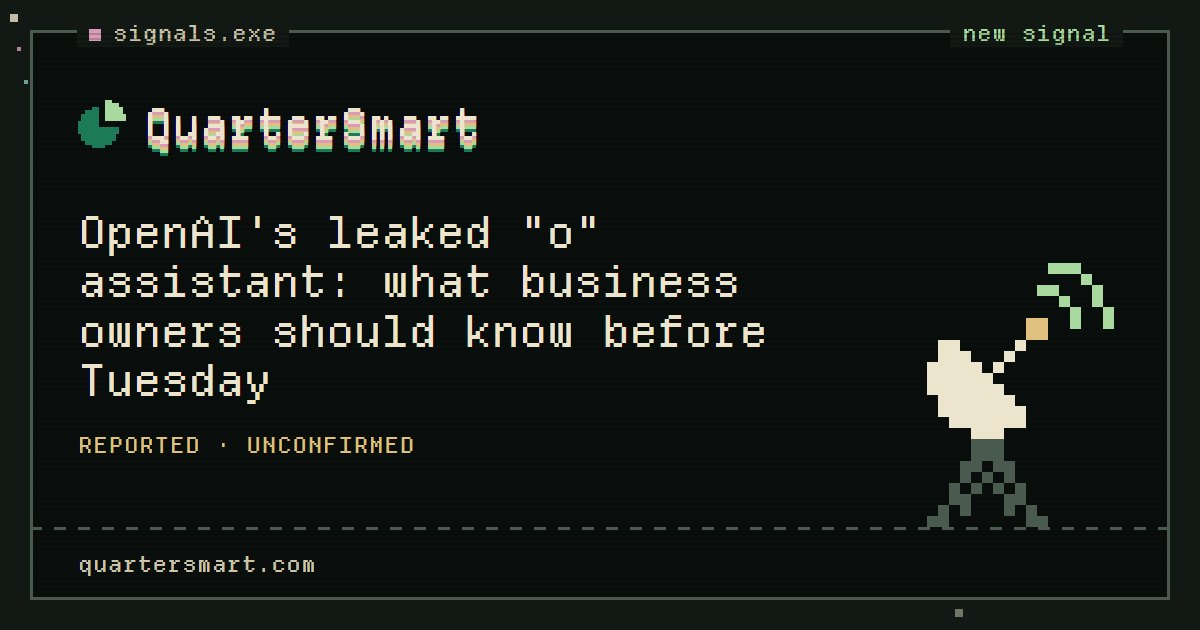
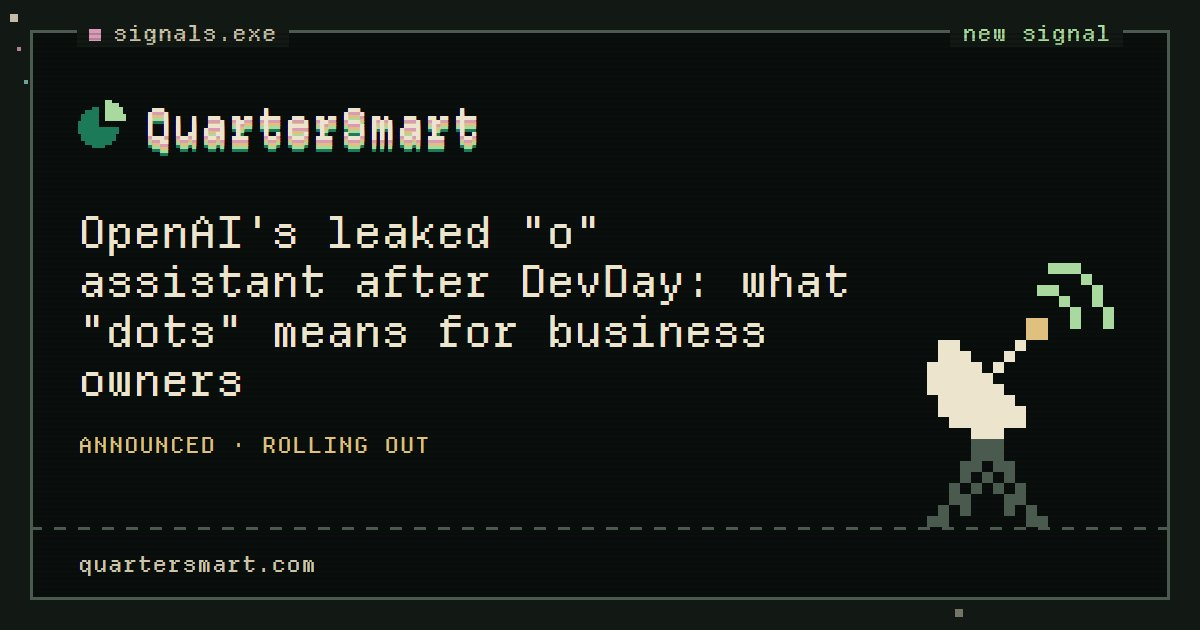
Signals: update the "o" leak report after DevDay (OpenAI announced "dots")
- Report retitled for after DevDay; label Announced · rolling out; verdict stays Prepare.
- New "Updated Oct 1: what DevDay announced" block: what was announced, who can use it now
  (Pro outside the EEA, Switzerland and the UK; Business Premium; Enterprise beta off by
  default), what comes later with no date, and what was not announced (nothing called "o").
- New section on whether dots is the leaked "o" (likely, not confirmed by OpenAI).
- 11 sources added, all opened and checked; 17 lines tightened to match them.
- Homepage Signals band drops the past DevDay event row; Signals Log resolves the item as
  "Partly right"; hub stamp, founder page, llms.txt and the share image updated.
Checks: build passes, smoke 58 captures / 29 pages / 0 failing.

Changed region(s): [[0.0617, 0.4222, 0.7092, 0.6333], [0.0617, 0.6937, 0.37, 0.7238]]

diff --git a/signals/openai-o-assistant-leak.html b/signals/openai-o-assistant-leak.html
@@ -3,26 +3,26 @@
 <head>
 <meta charset="utf-8">
 <meta name="viewport" content="width=device-width, initial-scale=1">
-<title>OpenAI's Leaked "o" Assistant: What to Know Before DevDay | QuarterSmart</title>
-<meta name="description" content="A ChatGPT Pro upgrade screen reportedly listed &quot;o, your always-on assistant.&quot; What leaked, what is confirmed, what it could mean for your inbox and calendar, and what to do before Tuesday.">
+<title>OpenAI's Leaked "o" Assistant After DevDay: What "Dots" Means | QuarterSmart</title>
+<meta name="description" content="OpenAI never announced &quot;o.&quot; At DevDay on Sept 29 it announced &quot;dots,&quot; always-on agents in ChatGPT, rolling out to Pro and Business Premium. What was announced, who can use it now, and what to do.">
 <meta name="author" content="Hyrum Hurst">
 <meta name="robots" content="index, follow, max-image-preview:large">
 <link rel="canonical" href="https://quartersmart.com/signals/openai-o-assistant-leak">
 <meta property="og:type" content="article">
-<meta property="og:title" content="OpenAI's leaked &quot;o&quot; assistant: what business owners should know before Tuesday">
-<meta property="og:description" content="What leaked, what is confirmed, what an always-on assistant would mean for your inbox and calendar, and what to do before DevDay.">
+<meta property="og:title" content="OpenAI's leaked &quot;o&quot; assistant after DevDay: what &quot;dots&quot; means for business owners">
+<meta property="og:description" content="OpenAI announced &quot;dots,&quot; always-on agents in ChatGPT, not &quot;o.&quot; What was announced, who can use it now, what is still unknown, and what to do.">
 <meta property="og:url" content="https://quartersmart.com/signals/openai-o-assistant-leak">
 <meta property="og:site_name" content="QuarterSmart">
 <meta property="og:image" content="https://quartersmart.com/assets/og/signals-openai-o-assistant-leak.jpg">
 <meta property="og:image:width" content="1200">
 <meta property="og:image:height" content="630">
-<meta property="og:image:alt" content="QuarterSmart Signals: OpenAI's leaked &quot;o&quot; assistant, what business owners should know before Tuesday">
+<meta property="og:image:alt" content="QuarterSmart Signals: OpenAI's leaked &quot;o&quot; assistant after DevDay, what &quot;dots&quot; means for business owners">
 <meta name="twitter:card" content="summary_large_image">
-<meta name="twitter:title" content="OpenAI's leaked &quot;o&quot; assistant: what to know before Tuesday">
-<meta name="twitter:description" content="What leaked, what is confirmed, and what to do before DevDay.">
+<meta name="twitter:title" content="OpenAI's leaked &quot;o&quot; assistant after DevDay: what &quot;dots&quot; means">
+<meta name="twitter:description" content="OpenAI announced &quot;dots,&quot; not &quot;o.&quot; Who can use it now, and what to do.">
 <meta name="twitter:image" content="https://quartersmart.com/assets/og/signals-openai-o-assistant-leak.jpg">
-<meta name="qs:kind" content="reported">
-<meta name="qs:label" content="Reported · unconfirmed">
+<meta name="qs:kind" content="confirmed">
+<meta name="qs:label" content="Announced · rolling out">
 <meta name="qs:verdict" content="Prepare">
 <meta name="qs:cover" content="/assets/px/flat/assistant.png">
 <!-- @include head -->
@@ -35,11 +35,11 @@
     {
       "@type": "NewsArticle",
       "@id": "https://quartersmart.com/signals/openai-o-assistant-leak#article",
-      "headline": "OpenAI's leaked \"o\" assistant: what business owners should know before Tuesday",
-      "description": "What leaked, what is confirmed, what an always-on assistant would mean for your inbox and calendar, and what to do before DevDay.",
+      "headline": "OpenAI's leaked \"o\" assistant after DevDay: what \"dots\" means for business owners",
+      "description": "OpenAI announced \"dots,\" always-on agents in ChatGPT, not \"o.\" What was announced, who can use it now, what is still unknown, and what to do.",
       "image": "https://quartersmart.com/assets/og/signals-openai-o-assistant-leak.jpg",
       "datePublished": "2026-09-27",
-      "dateModified": "2026-09-27",
+      "dateModified": "2026-10-01",
       "author": { "@type": "Person", "@id": "https://quartersmart.com/about.html#hyrum-hurst", "name": "Hyrum Hurst", "url": "https://quartersmart.com/about/hyrum-hurst/" },
       "publisher": { "@id": "https://quartersmart.com/#organization" },
       "mainEntityOfPage": "https://quartersmart.com/signals/openai-o-assistant-leak"
@@ -49,7 +49,7 @@
       "itemListElement": [
         { "@type": "ListItem", "position": 1, "name": "Home", "item": "https://quartersmart.com/" },
         { "@type": "ListItem", "position": 2, "name": "Signals", "item": "https://quartersmart.com/signals/" },
-        { "@type": "ListItem", "position": 3, "name": "OpenAI's leaked \"o\" assistant", "item": "https://quartersmart.com/signals/openai-o-assistant-leak" }
+        { "@type": "ListItem", "position": 3, "name": "OpenAI's leaked \"o\" assistant after DevDay", "item": "https://quartersmart.com/signals/openai-o-assistant-leak" }
       ]
     }
   ]
@@ -63,11 +63,11 @@
     <div class="wrap phero__grid">
       <div class="phero__copy">
         <nav class="phero__crumbs" aria-label="Breadcrumb"><a href="/">Home</a> / <a href="/signals/">Signals</a></nav>
-        <p class="phero__meta"><span class="chip chip--reported">Reported · unconfirmed</span><span class="phero__verdict">Verdict:<b>Prepare</b></span></p>
-        <h1 class="phero__h">OpenAI's leaked "o" assistant: what business owners should know before Tuesday</h1>
-        <p class="lede">A ChatGPT Pro upgrade screen, reportedly seen only briefly by some users, listed "o, your always-on assistant." Here is what leaked, what is confirmed, and what to do before OpenAI's DevDay keynote.</p>
-        <p class="byline"><span>By <b>Hyrum Hurst</b></span><span>Posted <time datetime="2026-09-27T01:30-07:00">Sep 27, 2026</time></span><span>Leaked <time datetime="2026-09-25">Sep 25, 2026</time></span></p>
-        <div class="phero__cta"><a class="btn btn--arcade" href="/insert-coin/" data-cta="book" style="font-size:clamp(16.5px,(100vw - 480px) * 1000,22px)">Book a free 20-minute call</a><a class="link" href="#before-tuesday">What to do before Tuesday</a></div>
+        <p class="phero__meta"><span class="chip chip--confirmed">Announced · rolling out</span><span class="phero__verdict">Verdict:<b>Prepare</b></span></p>
+        <h1 class="phero__h">OpenAI's leaked "o" assistant after DevDay: what "dots" means for business owners</h1>
+        <p class="lede">A ChatGPT Pro upgrade screen reportedly listed "o, your always-on assistant." At DevDay on September 29, OpenAI announced "dots," always-on agents in ChatGPT. It did not announce anything called "o." Here is what was announced, who can use it now, and what to do.</p>
+        <p class="byline"><span>By <b>Hyrum Hurst</b></span><span>Posted <time datetime="2026-09-27T01:30-07:00">Sep 27, 2026</time></span><span>Updated <time datetime="2026-10-01T20:30-07:00">Oct 1, 2026</time></span><span>Leaked <time datetime="2026-09-25">Sep 25, 2026</time></span></p>
+        <div class="phero__cta"><a class="btn btn--arcade" href="/insert-coin/" data-cta="book" style="font-size:clamp(16.5px,(100vw - 480px) * 1000,22px)">Book a free 20-minute call</a><a class="link" href="#what-to-do">What to do now</a></div>
       </div>
       <div class="pxwin phero__art">
         <span class="win__t" aria-hidden="true">signal.exe</span>
@@ -83,15 +83,55 @@
 
   <div class="wrap post-grid">
     <article class="prose">
-      <div class="callout"><strong>Status: unconfirmed.</strong> As of September 27, "o" does not appear on OpenAI's <a href="https://devday.openai.com/" rel="noopener">DevDay page</a>, in <a href="https://openai.com/news/" rel="noopener">OpenAI News</a> or in the <a href="https://help.openai.com/en/articles/6825453-chatgpt-release-notes" rel="noopener">ChatGPT release notes</a>, whose newest entry is September 25.</div>
+      <div class="callout"><strong>Status, Oct 1: OpenAI announced "dots," not "o."</strong> On September 29, OpenAI <a href="https://openai.com/index/introducing-dots/" rel="noopener">announced dots</a>, always-on agents in ChatGPT. None of the OpenAI pages we checked use the name "o." Dots matches the leak closely, but OpenAI has not said they are the same product.</div>
+
+      <section class="callout callout--accent" id="update" aria-labelledby="update-h">
+        <h2 id="update-h">Updated Oct 1: what DevDay announced</h2>
+        <h3>Announced on Sept 29</h3>
+        <ul>
+          <li>OpenAI <a href="https://openai.com/index/introducing-dots/" rel="noopener">announced dots</a>, which it calls always-on agents in ChatGPT. <a href="https://techcrunch.com/2026/09/29/openai-launches-dots-its-bubbly-agentic-avatar/" rel="noopener">TechCrunch</a> reports they run on GPT-6 Astra.</li>
+          <li>A dot keeps working between chats. It can run <a href="https://help.openai.com/en/articles/20001530-getting-started-with-your-dot" rel="noopener">scheduled reminders and recurring checks</a>, such as a morning review of your calendar.</li>
+          <li>When you are not working with it, a dot <a href="https://openai.com/index/introducing-dots/" rel="noopener">researches in the background</a> with read-only tools. Those tools cannot send messages, change app content or control a browser.</li>
+          <li>You can set limits. <a href="https://openai.com/index/introducing-dots/" rel="noopener">Custom Rules</a> let you allow an action, require approval or block it. Before a dot sends an email or changes files, a separate check called <a href="https://openai.com/index/how-we-build-safety-security-and-privacy-into-dots/" rel="noopener">Auto-review</a> compares the step with your instructions and rules. Purchases with saved cards need your approval. Password changes and money transfers go back to you.</li>
+          <li>You can <a href="https://openai.com/index/introducing-dots/" rel="noopener">message or call your dot</a> in ChatGPT on desktop, web and mobile, and message it in Slack and Teams.</li>
+        </ul>
+        <h3>Who can use it now</h3>
+        <p>The rollout started Sept 29 and is gradual. OpenAI's <a href="https://help.openai.com/en/articles/20001530-getting-started-with-your-dot" rel="noopener">Help Center</a> lists who gets it and says access may take several days to reach an account.</p>
+        <ul>
+          <li><strong>Pro:</strong> rolling out in eligible markets, except the EEA, Switzerland and the UK.</li>
+          <li><strong>Business Premium:</strong> rolling out in all supported ChatGPT regions.</li>
+          <li><strong>Enterprise, Edu and Healthcare:</strong> a beta, off by default until a workspace admin turns it on (<a href="https://openai.com/index/devday-2026-recap/" rel="noopener">DevDay recap</a>).</li>
+          <li><strong>Free, Go and Plus:</strong> not included. Among individual plans, OpenAI's <a href="https://chatgpt.com/pricing/" rel="noopener">pricing page</a> lists dots only under Pro.</li>
+          <li><strong>Cost:</strong> your first dot is included in Pro or Business Premium <a href="https://openai.com/index/introducing-dots/" rel="noopener">at no extra cost</a>. Chatting with it does not count toward usage limits. Tasks it starts in Codex or ChatGPT Work do.</li>
+          <li><strong>Limits at launch:</strong> a dot can use a personal email account you connect, but it cannot have its own email address or call you. Texting is a <a href="https://help.openai.com/en/articles/20001530-getting-started-with-your-dot" rel="noopener">limited beta</a> for some US Pro users.</li>
+        </ul>
+        <h3>Coming later, with no date</h3>
+        <ul>
+          <li><strong>Wider access.</strong> OpenAI says it plans to bring dots <a href="https://openai.com/index/introducing-dots/" rel="noopener">"to more users soon"</a> and names no plans.</li>
+          <li><strong>Usage terms after the first month.</strong> The <a href="https://help.openai.com/en/articles/6825453-chatgpt-release-notes" rel="noopener">release notes</a> say dots usage will not count toward plan allowances for the next month, and that OpenAI will share usage terms for each plan after that. The <a href="https://openai.com/index/introducing-dots/" rel="noopener">launch post</a> describes the first month differently, as extended limits.</li>
+          <li><strong>More than one dot.</strong> Adding more dots, or scaling a dot's speed or monthly work, is <a href="https://openai.com/index/introducing-dots/" rel="noopener">described as coming in the future</a>.</li>
+          <li><strong>Broader texting.</strong> OpenAI's <a href="https://openai.com/index/introducing-dots/" rel="noopener">launch post</a> calls texting "coming soon."</li>
+        </ul>
+        <h3>Not announced</h3>
+        <p>Anything called "o." The name is not in OpenAI's dots post, DevDay recap, dots safety post, Help Center article, <a href="https://help.openai.com/en/articles/6825453-chatgpt-release-notes" rel="noopener">release notes</a> or <a href="https://help.openai.com/en/articles/9793128-about-chatgpt-pro-tiers" rel="noopener">Pro tiers article</a>.</p>
+        <h3>What changes for a working business</h3>
+        <ul>
+          <li><strong>On Free, Go or Plus:</strong> nothing for now. Dots is not on your plan.</li>
+          <li><strong>On Pro (outside the EEA, Switzerland and the UK) or Business Premium:</strong> your dot may already be there. If not, OpenAI says access may take several days. Write your Custom Rules before you connect email.</li>
+          <li><strong>On Enterprise:</strong> nothing happens until an admin turns the beta on. Decide who tests it first.</li>
+          <li><strong>For everyone:</strong> the prep list below still applies, and written approval rules map straight onto Custom Rules.</li>
+        </ul>
+        <p>The verdict stays <strong>Prepare</strong>. Dots is limited to Pro, Business Premium and an Enterprise beta, and the usage terms after the first month are not public yet.</p>
+      </section>
 
       <div class="shortv">
         <h2>The short version</h2>
         <ul>
           <li>On September 25, Jake Boggs posted a screenshot of the ChatGPT Pro upgrade screen on X. One line read "o, your always-on assistant."</li>
           <li>The next day, TestingCatalog posted ChatGPT configuration showing "o" as a display name and "-o" as an email suffix. It said the line appeared only briefly on the upgrade screen, for some users.</li>
-          <li>OpenAI has not announced "o." Its DevDay is Tuesday, and TestingCatalog expects to hear more there.</li>
-          <li>The only description is "your always-on assistant." Read literally, that is an assistant that keeps working after you close the chat. For a small business, that points at the inbox, the calendar and the follow-ups nobody gets to.</li>
+          <li>At DevDay on September 29, OpenAI announced "dots," always-on agents in ChatGPT. It did not announce anything called "o."</li>
+          <li>OpenAI's pricing page now lists "Dot, your always-on agent" under Pro. That is a close match for the leak, but OpenAI has not linked the two.</li>
+          <li>For a small business, an always-on agent points at the inbox, the calendar and the follow-ups nobody gets to. Dots is rolling out to Pro and Business Premium, with an Enterprise beta.</li>
         </ul>
       </div>
 
@@ -99,53 +139,72 @@
       <p>Two screenshots, both posted on X and neither confirmed by OpenAI.</p>
       <p>The first, posted by <a href="https://x.com/JakeABoggs/status/2103497311225856386" rel="noopener">Jake Boggs</a> on September 25, is a "Get ChatGPT Pro" upgrade screen. Under "Everything in Plus, and:" it lists "o, your always-on assistant."</p>
       <p>The second, posted by <a href="https://x.com/testingcatalog/status/2103787365986623925" rel="noopener">TestingCatalog</a> the next day, shows ChatGPT's internal configuration with a display name of "o" and an email suffix of "-o." TestingCatalog says the line appeared only briefly on the upgrade screen, for some users.</p>
-      <p>That is the entire evidence base. There is no feature list, no release date and no separate price. On the leaked screen, "o" is a Pro perk on top of Plus. Whether Plus, Business or Enterprise get it is unknown, and TestingCatalog says the assistant's tasks, permissions, scheduling, memory and availability <a href="https://www.testingcatalog.com/openai-to-announce-o-always-on-agent-during-devday/" rel="noopener">remain unknown</a>.</p>
+      <p>That was the entire evidence base before DevDay. There was no feature list, no release date and no separate price. On the leaked screen, "o" was a Pro perk on top of Plus. Whether Plus, Business or Enterprise would get it was unknown, and TestingCatalog said the assistant's tasks, permissions, scheduling, memory and availability <a href="https://www.testingcatalog.com/openai-to-announce-o-always-on-agent-during-devday/" rel="noopener">remained unknown</a>. DevDay answered most of those questions for dots.</p>
 
-      <h2>What "always-on" would mean in practice</h2>
-      <p>ChatGPT Work can already run <a href="https://help.openai.com/en/articles/6825453-chatgpt-release-notes" rel="noopener">scheduled tasks</a> that repeat or watch for changes, and since August 25, Plus and Pro users can have a task respond when a new Gmail message arrives. An always-on assistant would presumably keep working without you setting up each task, but OpenAI has not said what "o" does. If it goes that way, these are the three places a business would feel it first:</p>
+      <h2>Is dots the "o" from the leak?</h2>
+      <p>Probably, but OpenAI has not said so.</p>
+      <ul>
+        <li><strong>What matches.</strong> The leak showed an always-on assistant listed as a Pro perk. OpenAI's <a href="https://chatgpt.com/pricing/" rel="noopener">pricing page</a> now lists "Dot, your always-on agent" under Pro.</li>
+        <li><strong>What does not.</strong> The leak pointed to an "-o" email suffix. At launch, a dot <a href="https://help.openai.com/en/articles/20001530-getting-started-with-your-dot" rel="noopener">cannot have its own email address</a>, and its default handle is @yourname-dot.</li>
+        <li><strong>What is still open.</strong> The night before the keynote, TestingCatalog reported that the agents would be called "Dots" and <a href="https://x.com/testingcatalog/status/2104800309612552589" rel="noopener">asked</a> whether "o" was "something else on top of it." Its Sept 30 <a href="https://www.testingcatalog.com/openai-launches-dots-agents-powered-by-gpt-6-astra/" rel="noopener">launch article</a> does not mention "o."</li>
+      </ul>
+      <p>Our read: the same product under its launch name. That is our inference, not OpenAI's statement.</p>
+
+      <h2>What "always-on" means in practice</h2>
+      <p>Before DevDay, all we had was the word "assistant" and an email suffix. ChatGPT Work could already run <a href="https://help.openai.com/en/articles/6825453-chatgpt-release-notes" rel="noopener">scheduled tasks</a> that repeat or watch for changes, and since August 25, Plus and Pro users can have a task respond when a new Gmail message arrives. OpenAI says dots go further: they <a href="https://help.openai.com/en/articles/6825453-chatgpt-release-notes" rel="noopener">keep making progress between conversations</a> and <a href="https://openai.com/index/introducing-dots/" rel="noopener">look for ways to help in the background</a>. These are the three places a business would feel it first:</p>
       <ol>
-        <li><strong>The inbox.</strong> Sorting what needs you, drafting replies in your voice, and chasing threads that went quiet. TestingCatalog reads the "-o" email suffix to mean "o" will handle email. As <a href="https://kingy.ai/blog/openai-o-update-always-on-assistant/" rel="noopener">Kingy AI</a> points out, a suffix alone could mean the assistant gets its own address rather than access to your inbox.</li>
-        <li><strong>The calendar.</strong> Finding times, confirming appointments and handling reschedules without the back-and-forth.</li>
-        <li><strong>Follow-ups.</strong> The quotes that never got a second touch, and the leads that went cold because everyone was busy.</li>
+        <li><strong>The inbox.</strong> A dot can use a personal email account you connect, and <a href="https://openai.com/index/how-we-build-safety-security-and-privacy-into-dots/" rel="noopener">Auto-review</a> checks the recipient and the message before it sends. TestingCatalog read the leaked "-o" suffix to mean "o" would handle email. As <a href="https://kingy.ai/blog/openai-o-update-always-on-assistant/" rel="noopener">Kingy AI</a> pointed out, a suffix alone could also mean an address of its own. At launch, a dot cannot have one.</li>
+        <li><strong>The calendar.</strong> A dot can <a href="https://help.openai.com/en/articles/20001530-getting-started-with-your-dot" rel="noopener">review your calendar each morning</a> and tell you what is coming up. That example is OpenAI's own.</li>
+        <li><strong>Follow-ups.</strong> Scheduled reminders and recurring checks are the building blocks. Using them to chase quotes and cold leads is our reading.</li>
       </ol>
-      <p>These are inferences, not confirmed features. The only concrete clue is the email suffix. The calendar and follow-ups come from the word "assistant" alone.</p>
 
       <h2>Confirmed vs. reported</h2>
       <table class="cvr">
         <thead><tr><th>Claim</th><th>Status</th></tr></thead>
         <tbody>
-          <tr><td>DevDay is Tuesday, Sept 29, at Fort Mason in San Francisco. The keynote is at 10:00 AM PT and livestreamed free.</td><td><span class="chip chip--confirmed">Confirmed by OpenAI</span></td></tr>
+          <tr><td>At DevDay on Tuesday, Sept 29, OpenAI announced dots, always-on agents in ChatGPT.</td><td><span class="chip chip--confirmed">Confirmed by OpenAI</span></td></tr>
           <tr><td>A Pro upgrade screen listed "o, your always-on assistant" as a perk on top of Plus.</td><td><span class="chip chip--reported">Reported</span></td></tr>
           <tr><td>App configuration shows "o" as a display name and "-o" as an email suffix.</td><td><span class="chip chip--reported">Reported</span></td></tr>
-          <tr><td>OpenAI announces "o" at DevDay, as TestingCatalog expects.</td><td><span class="chip chip--quiet">Speculation</span></td></tr>
-          <tr><td>"o" handles email, as TestingCatalog reads the "-o" suffix.</td><td><span class="chip chip--quiet">Speculation</span></td></tr>
-          <tr><td>Price, and whether Plus, Business or Enterprise get it.</td><td><span class="chip chip--quiet">Unknown</span></td></tr>
+          <tr><td>OpenAI announces "o" at DevDay, as TestingCatalog expected. It announced dots instead and did not use the name.</td><td><span class="chip chip--quiet">Did not happen</span></td></tr>
+          <tr><td>Dots is the "o" from the leak.</td><td><span class="chip chip--reported">Likely · unconfirmed</span></td></tr>
+          <tr><td>"o" handles email, as TestingCatalog read the "-o" suffix. A dot can use a personal email account you connect, but cannot have its own address at launch.</td><td><span class="chip chip--confirmed">Partly</span></td></tr>
+          <tr><td>Which plans get it: Pro and Business Premium now, plus an Enterprise beta. Not Free, Go or Plus. The first dot costs nothing extra on Pro or Business Premium.</td><td><span class="chip chip--confirmed">Confirmed by OpenAI</span></td></tr>
         </tbody>
       </table>
 
       <h2>Who this is for, and who can skip it</h2>
-      <p><strong>Prepare</strong> if your week is eaten by email, scheduling or follow-ups and your team already uses ChatGPT. <strong>Skip it for now</strong> if your team does not use ChatGPT at all, or if client data rules mean a new assistant would need a long approval process anyway.</p>
+      <p><strong>Prepare</strong> if your week is eaten by email, scheduling or follow-ups and your team already uses ChatGPT. If you already pay for Pro or a Business Premium seat, write your rules this week and give your dot one small recurring job when it arrives. <strong>Skip it for now</strong> if your team does not use ChatGPT at all, if you are on Pro in the EEA, Switzerland or the UK, or if client data rules mean a new agent would need a long approval process anyway.</p>
 
-      <h2 id="before-tuesday">What to do before Tuesday</h2>
-      <p>No need to buy anything yet. These steps make day one easier if it ships:</p>
+      <h2 id="what-to-do">What to do now</h2>
+      <p>No need to buy anything yet. These steps pay off whether dots is on your plan today or not:</p>
       <ul>
-        <li><strong>Clean up the shared inbox.</strong> Archive dead threads and set up labels for sales, support and billing. An assistant works better on an organized inbox.</li>
+        <li><strong>Clean up the shared inbox.</strong> Archive dead threads and set up labels for sales, support and billing. An agent works better on an organized inbox.</li>
         <li><strong>Write down your three most repetitive email types.</strong> Booking confirmations, quote follow-ups and "just checking in." Those are the first jobs to hand off.</li>
         <li><strong>Check who owns your accounts.</strong> Know which Google or Microsoft account holds the company email and calendar, and who can grant access.</li>
-        <li><strong>Decide your rules.</strong> What should an assistant never send without a person approving it? Write that down now, while it is calm.</li>
-        <li><strong>Try the closest thing that exists now.</strong> If you are on Plus or Pro, ChatGPT Work can run a <a href="https://help.openai.com/en/articles/6825453-chatgpt-release-notes" rel="noopener">scheduled task when a new Gmail message arrives</a>, and actions that need approval wait for you. One small test shows how your team feels about an assistant touching email.</li>
+        <li><strong>Write your rules.</strong> What should an agent never send without a person approving it? Dots' <a href="https://openai.com/index/introducing-dots/" rel="noopener">Custom Rules</a> let you allow an action, require approval or block it, so a written list carries straight over.</li>
+        <li><strong>Start with one recurring check.</strong> If your dot has arrived, give it one job that only reads, such as a morning review of your calendar. If it has not, ChatGPT Work can already run a <a href="https://help.openai.com/en/articles/6825453-chatgpt-release-notes" rel="noopener">scheduled task when a new Gmail message arrives</a> on Plus and Pro, and actions that need approval wait for you.</li>
       </ul>
 
-      <h2 id="devday">Tuesday: DevDay</h2>
-      <p><a href="https://devday.openai.com/" rel="noopener">OpenAI DevDay</a> is Tuesday, September 29, at Fort Mason in San Francisco. Sam Altman's opening keynote starts at 10:00 AM Pacific and is livestreamed free for anyone. We are watching it live. This page gets a plain-English update the same afternoon: what was announced, who gets it, and what to switch on or ignore.</p>
+      <h2 id="devday">DevDay: what happened</h2>
+      <p><a href="https://devday.openai.com/" rel="noopener">OpenAI DevDay</a> was Tuesday, September 29. That day OpenAI <a href="https://openai.com/index/introducing-dots/" rel="noopener">announced dots</a> and published a <a href="https://openai.com/index/devday-2026-recap/" rel="noopener">DevDay recap</a>. Neither uses the name "o." <a href="https://www.cnbc.com/2026/09/29/openai-devday-2026-live-updates.html" rel="noopener">CNBC's live blog</a> and TestingCatalog's launch article cover dots without mentioning "o" either. We said this page would get an update the same afternoon. It came on October 1.</p>
 
       <h2>If you want help</h2>
-      <p>If "o" ships, we set it up in your accounts from the day it is available to you, with only the access it needs, then test it with a few people and teach it to the team. See <a href="/services/#day-one-setup">Day One Setup</a>. Members of <a href="/services/#first-quarter">First Quarter</a> get it filtered to their tools, with priority in the setup queue.</p>
+      <p>If dots is on your plan, we set it up in your accounts from the day it reaches you, with only the access it needs, then test it with a few people and teach it to the team. See <a href="/services/#day-one-setup">Day One Setup</a>. Members of <a href="/services/#first-quarter">First Quarter</a> get it filtered to their tools, with priority in the setup queue.</p>
 
       <h2 id="sources">Sources</h2>
       <ul class="sources">
-        <li><a href="https://devday.openai.com/" rel="noopener">OpenAI: DevDay 2026 (date, venue and keynote time)</a></li>
-        <li><a href="https://help.openai.com/en/articles/6825453-chatgpt-release-notes" rel="noopener">OpenAI: ChatGPT release notes (ChatGPT Work and Gmail-triggered tasks; no mention of "o" as of Sept 27)</a></li>
+        <li><a href="https://openai.com/index/introducing-dots/" rel="noopener">OpenAI: Introducing dots (Sept 29: announcement, plans, Custom Rules, background research)</a></li>
+        <li><a href="https://openai.com/index/devday-2026-recap/" rel="noopener">OpenAI: DevDay 2026 recap (Sept 29: Enterprise beta off by default)</a></li>
+        <li><a href="https://openai.com/index/how-we-build-safety-security-and-privacy-into-dots/" rel="noopener">OpenAI: How we build safety, security, and privacy into dots (Auto-review, approvals)</a></li>
+        <li><a href="https://help.openai.com/en/articles/20001530-getting-started-with-your-dot" rel="noopener">OpenAI Help Center: Getting started with your dot (regions, rollout, email, scheduled tasks, texting beta)</a></li>
+        <li><a href="https://help.openai.com/en/articles/6825453-chatgpt-release-notes" rel="noopener">OpenAI: ChatGPT release notes (Sept 29 "Meet your dot" and first-month usage; earlier, ChatGPT Work and Gmail-triggered tasks)</a></li>
+        <li><a href="https://help.openai.com/en/articles/9793128-about-chatgpt-pro-tiers" rel="noopener">OpenAI Help Center: About ChatGPT Pro tiers (no mention of "o")</a></li>
+        <li><a href="https://chatgpt.com/pricing/" rel="noopener">OpenAI: ChatGPT pricing ("Dot, your always-on agent" under Pro; checked Oct 1)</a></li>
+        <li><a href="https://techcrunch.com/2026/09/29/openai-launches-dots-its-bubbly-agentic-avatar/" rel="noopener">TechCrunch: OpenAI launches Dots, its bubbly agentic avatar (Sept 29)</a></li>
+        <li><a href="https://www.cnbc.com/2026/09/29/openai-devday-2026-live-updates.html" rel="noopener">CNBC: OpenAI DevDay 2026 live updates (Sept 29)</a></li>
+        <li><a href="https://www.testingcatalog.com/openai-launches-dots-agents-powered-by-gpt-6-astra/" rel="noopener">TestingCatalog: OpenAI launches Dots agents powered by GPT-6 Astra (Sept 30)</a></li>
+        <li><a href="https://x.com/testingcatalog/status/2104800309612552589" rel="noopener">TestingCatalog on X: the "Dots" name and the "o" question (the night before the keynote)</a></li>
+        <li><a href="https://devday.openai.com/" rel="noopener">OpenAI: DevDay 2026 (event date)</a></li>
         <li><a href="https://openai.com/news/" rel="noopener">OpenAI News (no mention of "o" as of Sept 27)</a></li>
         <li><a href="https://x.com/JakeABoggs/status/2103497311225856386" rel="noopener">Jake Boggs on X: the Pro upgrade screen (Sept 25)</a></li>
         <li><a href="https://x.com/testingcatalog/status/2103787365986623925" rel="noopener">TestingCatalog on X: the configuration screenshot (Sept 26)</a></li>
@@ -155,6 +214,7 @@
 
       <h2>Update log</h2>
       <ul class="updlog">
+        <li><time datetime="2026-10-01T20:30-07:00">Oct 1 · 8:30 PM MST</time><span>Added what DevDay announced: OpenAI's dots, who can use them now, and what was not announced. Changed the label from Reported · unconfirmed to Announced · rolling out, resolved the DevDay rows, kept the verdict at Prepare and retitled the post. Original title: <em>OpenAI's leaked "o" assistant: what business owners should know before Tuesday</em>.</span></li>
         <li><time datetime="2026-09-27T11:45-07:00">Sep 27 · 11:45 AM MST</time><span>Named the original poster, added TestingCatalog's report and ChatGPT Work's existing Gmail-triggered tasks, and checked OpenAI's DevDay page, news and release notes, none of which mention "o." Removed an unsourced comparison and a source that could not be reached.</span></li>
         <li><time datetime="2026-09-27T01:30-07:00">Sep 27 · 1:30 AM MST</time><span>First posted.</span></li>
       </ul>
@@ -168,9 +228,10 @@
         <p class="psum__v">Prepare</p>
       </div>
       <dl class="psum__kv">
-        <div><dt>Status</dt><dd><span class="chip chip--reported">Reported · unconfirmed</span></dd></div>
+        <div><dt>Status</dt><dd><span class="chip chip--confirmed">Announced · rolling out</span></dd></div>
+        <div><dt>Is it "o"?</dt><dd>Likely, not confirmed by OpenAI</dd></div>
         <div><dt>Who it's for</dt><dd>Teams on ChatGPT whose week goes to email, scheduling and follow-ups</dd></div>
-        <div><dt>Next checkpoint</dt><dd><a href="#devday">DevDay keynote</a> · Tue Sep 29 · 10:00 AM PT</dd></div>
+        <div><dt>Next checkpoint</dt><dd><a href="#update">Usage terms per plan</a>, which OpenAI says come after dots' first month</dd></div>
       </dl>
       <nav aria-label="Read next">
         <p class="psum__k">Read next</p>

diff --git a/index.html b/index.html
@@ -111,19 +111,19 @@
       </div>
       <ol class="sigrows">
         <li><a href="/signals/openai-o-assistant-leak">
-          <span class="sigrows__meta"><span class="chip chip--reported">Reported · unconfirmed</span><time datetime="2026-09-27">Sep 27</time></span>
-          <span class="sigrows__t">OpenAI's leaked "o" assistant: what to know before Tuesday</span>
-          <span class="sigrows__v"><b>Verdict</b> Prepare. Clean up shared inboxes and calendars now.</span>
-        </a></li>
-        <li><a href="https://devday.openai.com/">
-          <span class="sigrows__meta"><span class="chip chip--event">Event</span><time datetime="2026-09-29T10:00-07:00">Tue Sep 29 · 10:00 AM PT</time></span>
-          <span class="sigrows__t">OpenAI DevDay keynote</span>
-          <span class="sigrows__v"><b>We'll post</b> a plain-English recap the same afternoon.</span>
+          <span class="sigrows__meta"><span class="chip chip--confirmed">Announced · rolling out</span><time datetime="2026-10-01">Updated Oct 1</time></span>
+          <span class="sigrows__t">OpenAI's leaked "o" assistant after DevDay: what "dots" means</span>
+          <span class="sigrows__v"><b>Verdict</b> Prepare. Write your approval rules before an agent touches email.</span>
         </a></li>
         <li><a href="/signals/chatgpt-mobile-voice-work">
           <span class="sigrows__meta"><span class="chip chip--available">Available · Plus, Pro</span><time datetime="2026-09-27">Sep 27</time></span>
           <span class="sigrows__t">ChatGPT's mobile app can now draft, summarize and build by voice</span>
           <span class="sigrows__v"><b>Verdict</b> Act now. Voice-draft one real email this week.</span>
+        </a></li>
+        <li><a href="/signals/sonnet-5-fable-5-same-day">
+          <span class="sigrows__meta"><span class="chip chip--available">Available · Jun 2026</span><time datetime="2026-06-30">Jun 30</time></span>
+          <span class="sigrows__t">Sonnet 5 ships and Fable 5 comes back online on the same day</span>
+          <span class="sigrows__v"><b>Verdict</b> Act now. Test Sonnet 5 on one high-volume task. Keep a fallback.</span>
         </a></li>
       </ol>
     </div>

diff --git a/signals/log/index.html b/signals/log/index.html
@@ -38,7 +38,7 @@
       "about": { "@id": "https://quartersmart.com/#organization" },
       "publisher": { "@id": "https://quartersmart.com/#organization" },
       "inLanguage": "en-US",
-      "dateModified": "2026-09-27"
+      "dateModified": "2026-10-01"
     },
     {
       "@type": "BreadcrumbList",
@@ -68,7 +68,7 @@
           <div class="lhead__cta">
             <a class="link" href="/signals/policy/">How we source Signals</a>
           </div>
-          <p class="lhead__meta"><span>1 item logged · 1 open</span><span>Updated <b><time datetime="2026-09-27">Sep 27, 2026</time></b></span><span>Corrections: <a href="mailto:hyrum@quartersmart.com">hyrum@quartersmart.com</a></span></p>
+          <p class="lhead__meta"><span>1 item logged · 0 open</span><span>Updated <b><time datetime="2026-10-01">Oct 1, 2026</time></b></span><span>Corrections: <a href="mailto:hyrum@quartersmart.com">hyrum@quartersmart.com</a></span></p>
         </div>
         <div class="pxwin lhead__art">
           <span class="win__t" aria-hidden="true">log.exe</span>
@@ -99,8 +99,8 @@
             <td data-label="Item"><a href="/signals/openai-o-assistant-leak">OpenAI "o" always-on assistant</a></td>
             <td data-label="Label"><span class="chip chip--reported">Reported</span></td>
             <td data-label="Posted"><time datetime="2026-09-27T01:30-07:00">Sep 27, 2026, 1:30 AM MST</time></td>
-            <td data-label="Outcome">Pending. Next check: DevDay, Sep 29.</td>
-            <td data-label="Resolved"><span class="faint">Not yet</span></td>
+            <td data-label="Outcome"><span>Partly right. At DevDay on Sep 29, OpenAI <a href="https://openai.com/index/introducing-dots/" rel="noopener">announced dots</a>, always-on agents included in Pro, as the leak described. It did not use the name "o" or link the two, and a dot cannot have its own email address at launch. <a href="/signals/openai-o-assistant-leak#update">What changed</a>.</span></td>
+            <td data-label="Resolved"><time datetime="2026-10-01">Oct 1, 2026</time></td>
           </tr>
         </tbody>
       </table>

diff --git a/about/hyrum-hurst/index.html b/about/hyrum-hurst/index.html
@@ -206,9 +206,9 @@
       </div>
       <ol class="siglist">
         <li><a href="/signals/openai-o-assistant-leak">
-          <span class="siglist__meta"><span class="chip chip--reported">Reported · unconfirmed</span><time datetime="2026-09-27">Sep 27, 2026</time></span>
-          <span class="siglist__t">OpenAI's leaked "o" assistant: what business owners should know before Tuesday</span>
-          <span class="siglist__v">Verdict: Prepare. Clean up shared inboxes and calendars now so there's less to fix if it ships.</span>
+          <span class="siglist__meta"><span class="chip chip--confirmed">Announced · rolling out</span><time datetime="2026-10-01">Updated Oct 1, 2026</time></span>
+          <span class="siglist__t">OpenAI's leaked "o" assistant after DevDay: what "dots" means for business owners</span>
+          <span class="siglist__v">Verdict: Prepare. OpenAI announced dots, not "o." Write your approval rules before an agent touches email.</span>
         </a></li>
         <li><a href="/signals/chatgpt-mobile-voice-work">
           <span class="siglist__meta"><span class="chip chip--available">Available · Plus, Pro</span><time datetime="2026-09-27">Sep 27, 2026</time></span>

diff --git a/signals/index.html b/signals/index.html
@@ -68,7 +68,7 @@
           <a class="btn btn--arcade" href="/insert-coin/" data-cta="book">Book a free 20-minute call</a>
           <a class="link" href="#weekly">Get Signals Weekly</a>
         </div>
-        <p class="shero__fine">Updated <time datetime="2026-09-27T11:45-07:00">Sep 27, 2026, 11:45 AM</time> Arizona time. We post fast, label how sure we are, and update the post when the facts change. <a href="/signals/policy/">How we source</a> · <a href="/signals/log/">Signals Log</a></p>
+        <p class="shero__fine">Updated <time datetime="2026-10-01T20:30-07:00">Oct 1, 2026, 8:30 PM</time> Arizona time. We post fast, label how sure we are, and update the post when the facts change. <a href="/signals/policy/">How we source</a> · <a href="/signals/log/">Signals Log</a></p>
       </div>
       <div class="pxwin shero__win">
         <span class="win__t" aria-hidden="true">signals.exe</span>

diff --git a/signals/chatgpt-mobile-voice-work.html b/signals/chatgpt-mobile-voice-work.html
@@ -138,7 +138,7 @@
       <nav aria-label="Read next">
         <p class="psum__k">Read next</p>
         <ul class="psum__next">
-          <li><a href="/signals/openai-o-assistant-leak">OpenAI's leaked "o" assistant: what to know before Tuesday</a></li>
+          <li><a href="/signals/openai-o-assistant-leak">OpenAI's leaked "o" assistant after DevDay: what "dots" means</a></li>
           <li><a href="/signals/">All Signals</a></li>
         </ul>
       </nav>

diff --git a/AGENTS.md b/AGENTS.md
@@ -143,6 +143,26 @@ public workflow templates.*
 
 ## 7. Status log (append newest at top — keep the next agent informed)
 
+- **2026-10-01 8:30 PM MST (post-DevDay update, branch devday-update, local only, not committed)** - OpenAI
+  announced "dots" (always-on agents in ChatGPT) at DevDay on Sep 29 and never used the name "o".
+  `signals/openai-o-assistant-leak.html` now opens with a status callout plus an "Updated Oct 1: what
+  DevDay announced" block (announced / who can use it now / coming later / not announced / what changes),
+  a new "Is dots the "o" from the leak?" section (likely, not confirmed by OpenAI), resolved table rows,
+  past-tense DevDay section, "What to do now" (anchor `#what-to-do`, was `#before-tuesday`), new OpenAI,
+  Help Center, pricing, TechCrunch, CNBC and TestingCatalog sources, and an Oct 1 update-log entry. Label
+  is now `confirmed` / "Announced · rolling out"; verdict stays Prepare; dateModified 2026-10-01. Retitled
+  "OpenAI's leaked "o" assistant after DevDay: what "dots" means for business owners" (title, og, twitter,
+  h1; hub card follows og:title); share card re-rendered with `tools/og.mjs` after deleting the old jpg.
+  Home Signals band: DevDay event row removed; rows are the report (Updated Oct 1), mobile voice and
+  Sonnet 5. Signals Log row resolved as "Partly right" (Oct 1, 0 open). Hub stamp Oct 1, 8:30 PM. Also
+  updated: author page Recent Signals, the mobile-voice post's Read next, llms.txt and the committed
+  sitemap lastmod. The 404 has no latest-signal slot, so it did not change. Smoke 58/58, failing 0.
+  Shots: `../shots/devday/`. Final check (same night): every DevDay claim matched to an OpenAI or press
+  source; softened "never used the name" to "did not announce anything called o", Pro/Business Premium
+  now "rolling out", the first-month usage wording notes that the release notes and launch post differ,
+  Pro guidance excludes the EEA/Switzerland/UK, committed sitemap lastmod bumped for /, /signals, /signals/log
+  and the author page. Smoke 58/58, failing 0. Shots: `../shots/devday/final/`.
+
 - **2026-09-30 (gift images, /g/)** - New top-level folder `g/` holds gift images for the speed-to-lead cold
   outreach (one PNG per prospect, linked only from that prospect's email). `netlify.toml` marks `/g/*` noindex
   and immutable; `robots.txt` disallows `/g/`. Published from a separate worktree (`~/.grindstone/site-gifts`,
